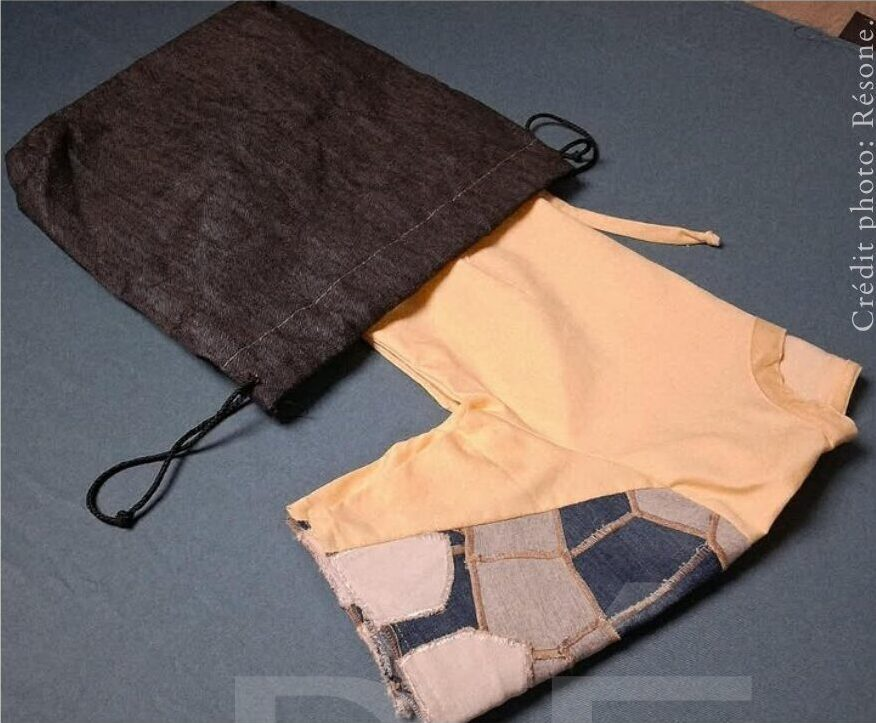
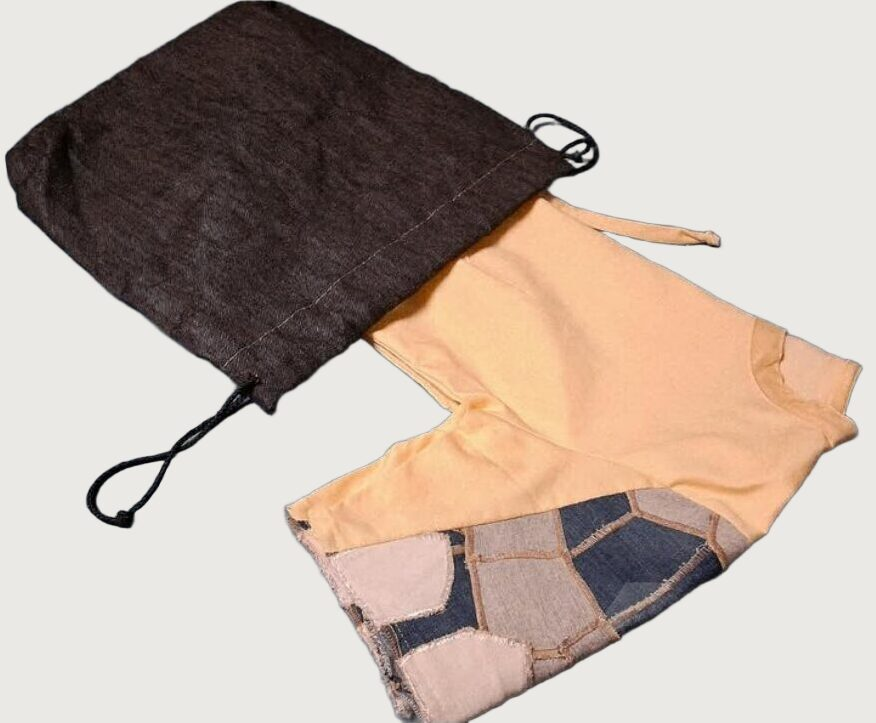
Lift the deck watermark off six garment shots
The studio's complaint was specific: the watermark "gives you an instant
feeling of, okay, this site is copied". The deck's giant RÉSONE wordmark
turns out to be a layer sitting behind the cut-out garments rather than
burned into the photographs, so for those shots it comes off with the
background. GPU matting locally, no Canva access needed.

Flattened back onto --bone, which is where the studio's own elephant-print
cut-out already sits, so this matches the treatment that was already in
the set rather than introducing a second one. Aspect ratios are byte-for-
byte unchanged, so no tile re-packs and no HTML changed. The set got
lighter, 3.01 -> 2.94 MB, because a flat ground compresses better than a
photographic one.

Six in: tablier, tablier-eventail, fee-des-jeans, fee-des-jeans-dos,
haut-peche, pochette-ensemble.

Three rejected, measured rather than eyeballed — interior transparency not
connected to the image border, which is a hole punched through the
garment: ensemble-peche 4.15%, haut-peche-poche 1.75%, jupe-denim 1.02%.
That test also correctly leaves alone the legitimate holes, the fan's
openwork and the gap inside a drawstring loop.

This does NOT close D1. Watermark that overlaps the subject survives —
FAIRE is burned across the jupe-denim skirt and a leader line crosses the
tablier — and the three rejected images still carry the full grey-ground
watermark. Those need the studio's raw files, which they offered in memo 2.
[…]

diff --git a/requirements-2026-09-26.md b/requirements-2026-09-26.md
@@ -123,7 +123,7 @@ reference site's nav rather than Résone's own.**)**
 
 | # | Ask | Note |
 |---|---|---|
-| D1 | Folder of **raw, un-watermarked images**, straight off the phone, no Canva export | Canva recompresses; this also resolves `target.md` §9 |
+| D1 | Folder of **raw, un-watermarked images**, straight off the phone, no Canva export | Canva recompresses; this also resolves `target.md` §9. **Partially worked around 2026-09-28 — still needed, see below** |
 | D2 | **Day/night photo pairs** for each light piece | They noted the reference site fakes it with a filter and want real shots |
 | D3 | **English copy** | Someone has to write it; C6 is blocked until then |
 | D4 | **Style grouping decision** | Studio said *"I don't know how to group"*; agreed fallback is named folders, or hand over everything |
@@ -132,6 +132,56 @@ reference site's nav rather than Résone's own.**)**
 
 Not a site task, recorded because it was discussed: each new model or style must be
 registered with the international IP office, **~10 000 FCFA per model**.
+
+### D1 — what was recovered locally on 2026-09-28, and what was not
+
+The deck's giant `RÉSONE / _ L'ART DE FAIRE RÉSONNER` wordmark is a layer sitting
+**behind** the cut-out garments, not burned into the photographs. So for those shots the
+watermark can be removed by removing the background — GPU matting on pbox, no Canva
+access needed. Flattened back onto `--bone`, which is what the studio's own
+`elephant-print` cut-out already sits on, so this matches the existing treatment rather
+than inventing one. Aspect ratios are untouched, so nothing re-packs, and the files got
+*smaller* (flat ground compresses better than a photographic one).
+
+**Six swapped in:** `tablier` · `tablier-eventail` · `fee-des-jeans` ·
+`fee-des-jeans-dos` · `haut-peche` · `pochette-ensemble`.
+
+**Three rejected**, because the matte punched holes through the garment itself —
+measured as interior transparency not connected to the image border:
+
+| Image | Interior holes | Why rejected |
+|---|---|---|
+| `ensemble-peche` | 4.15% | large tears through the flat-lay |
+| `haut-peche-poche` | 1.75% | hole at the waist tie |
+| `jupe-denim` | 1.02% | holes, **and** `FAIRE` is burned onto the denim skirt itself |
+
+**This does not close D1.** Two kinds of damage survive and only the studio's raw files
+fix them:
+
+1. **Watermark overlapping the subject.** `jupe-denim` carries `FAIRE` across the skirt;
+   `tablier` keeps one dashed leader line across the apron. There is no background to
+   remove there.
+2. **The three rejected images** still show the full grey-ground watermark, so the
+   patchwork group is mixed until the raw files land.
+
+`detail-denim` and `elephant-print` were left alone — the first is a full-frame fabric
+close-up with no subject to cut, the second was already clean.
+
+### Canva, checked 2026-09-28
+
+Not reachable, and worth writing down so it is not re-attempted blind. The repo's
+`.mcp.json` declares `canva` at `https://mcp.canva.com/mcp`, but it has never been
+approved (`enabledMcpjsonServers` is empty) and MCP servers only connect at session
+start — so it needs approval **and** a restart.
+
+Even then it buys less than it looks: `target.md` §1 records that `canva_get-assets`
+answers `permission_denied` for all 25 studio uploads because this deck is a *copy* of
+another team's design. A working Canva MCP would only re-export rendered pages — the
+same pixels, with the same watermark layer rendered in. The original photographs are not
+behind that door; they are with the studio.
+
+Removing the watermark layer inside the Canva deck would fix the overlapping cases, but
+that edits another team's shared design and is not an agent's call to make.
 
 ## E. Pre-existing issues found during this review
 
